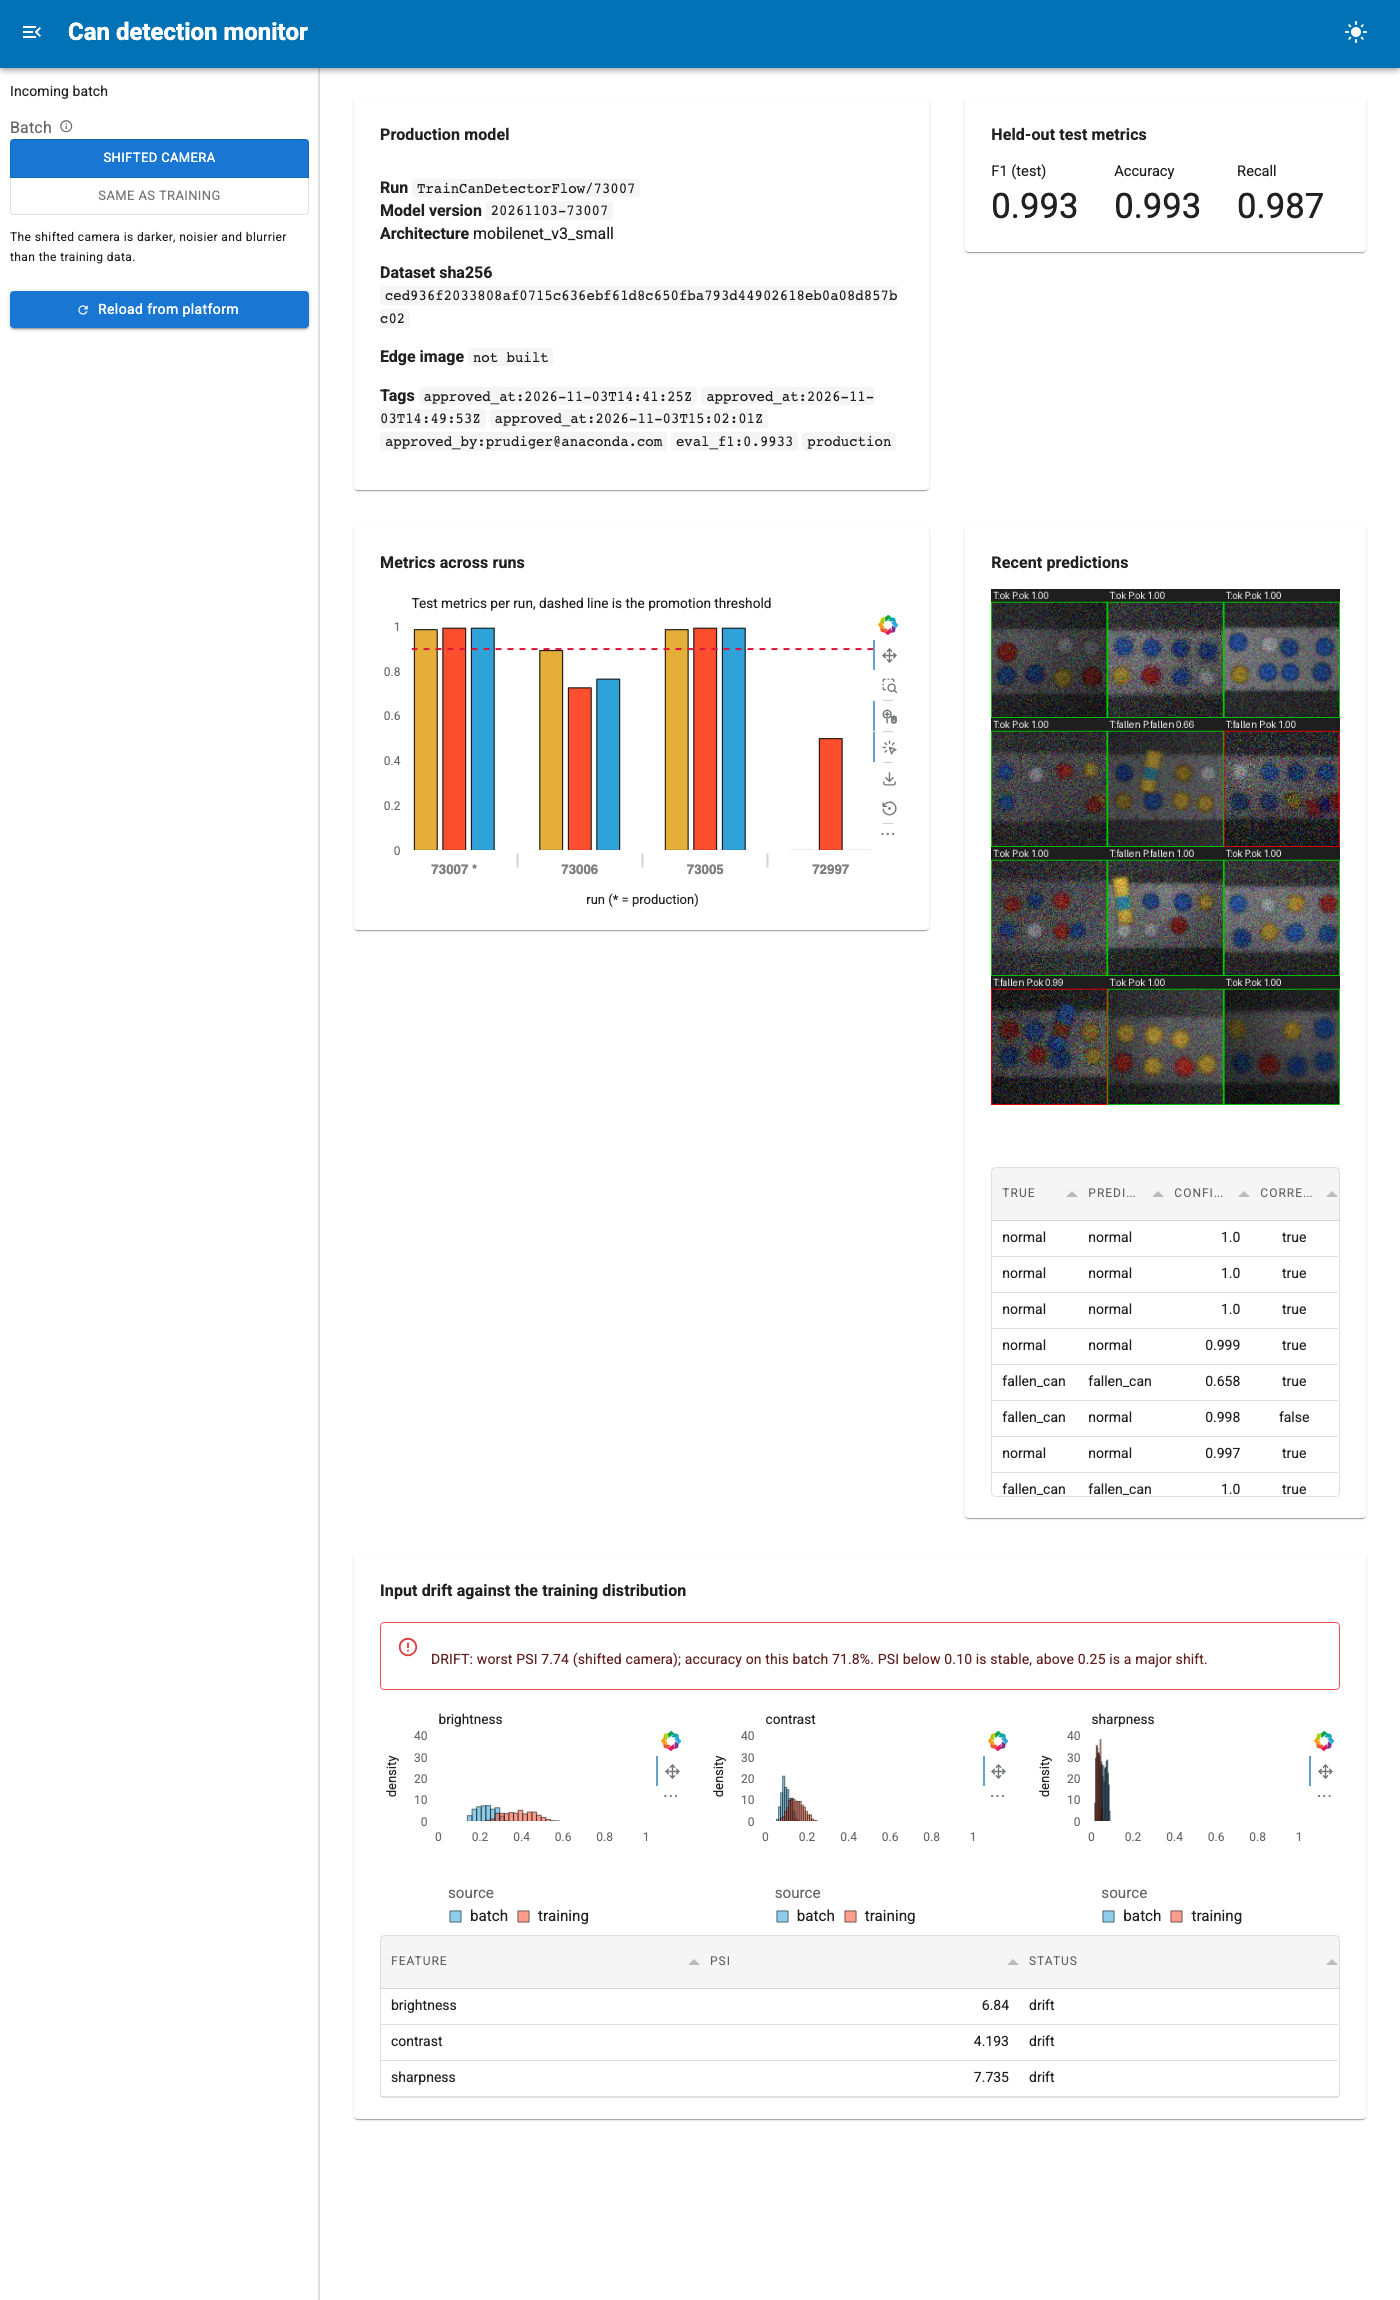
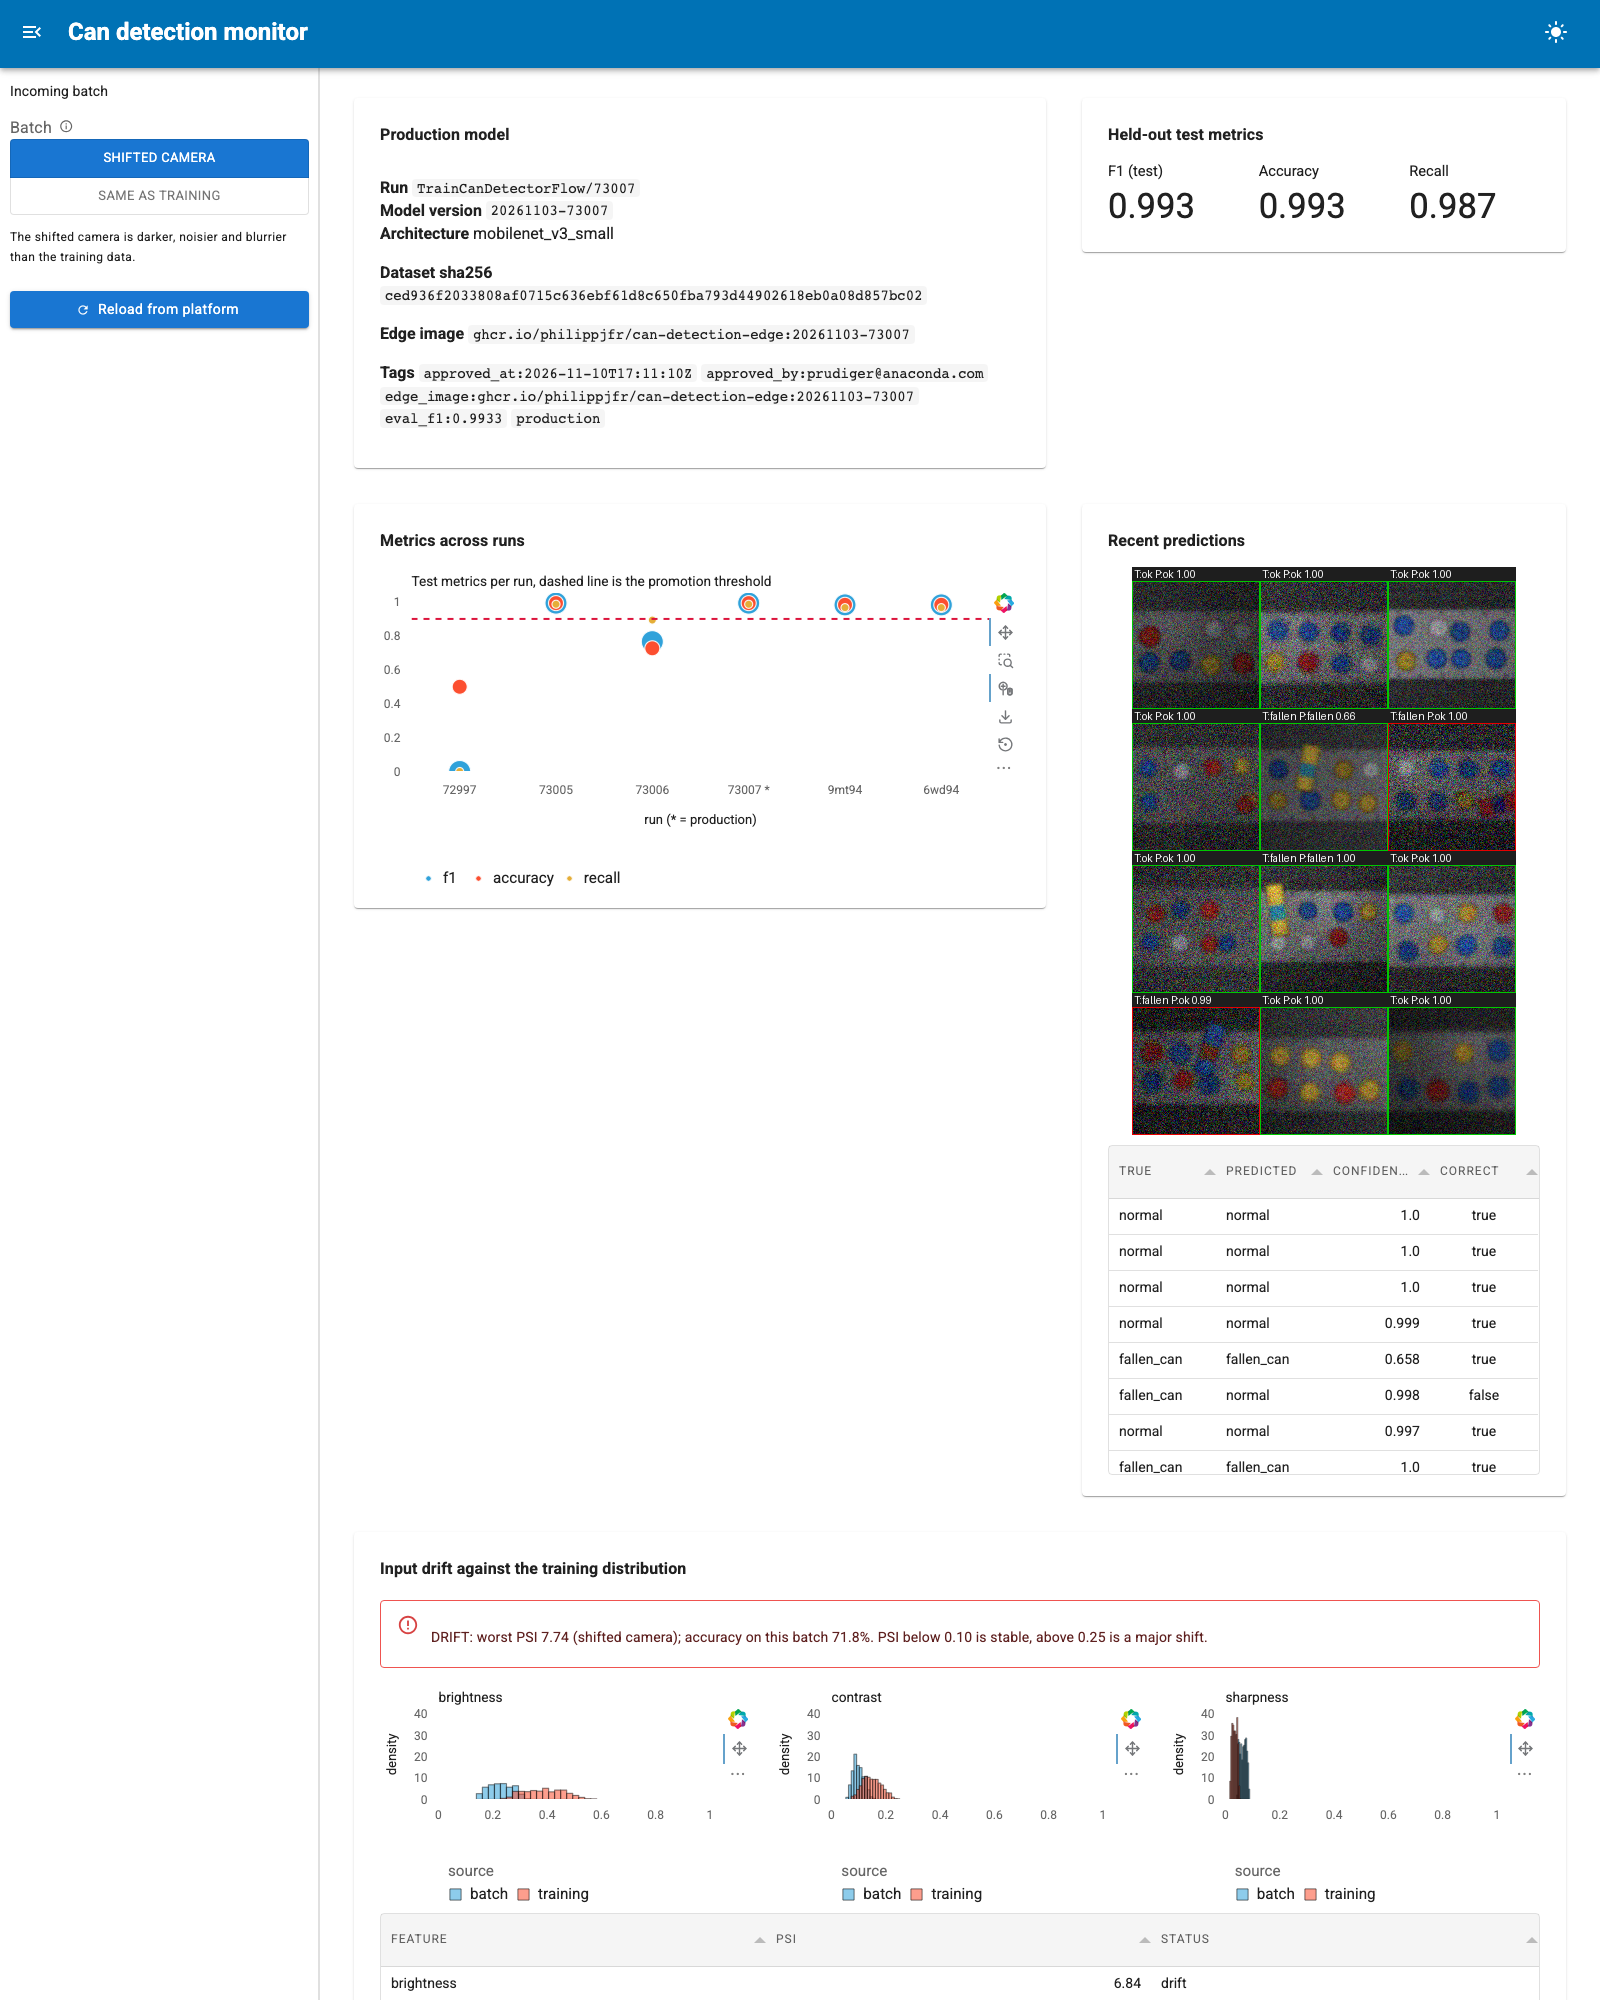
Dashboard: readable run labels, oldest first, dot plot with legend, safe fallbacks [skip ci]

diff --git a/dashboard/app.py b/dashboard/app.py
@@ -24,6 +24,7 @@ from candetect.data import CLASS_NAMES, DataConfig, generate_dataset, shifted_co
 from candetect.drift import FEATURES, drift_report, image_features, overall_status
 from candetect.inference import LoadedRun, contact_sheet, load_run
 from candetect.promotion import summarize_run
+from candetect.report import short_id
 
 log = logging.getLogger("candetect.dashboard")
 log.setLevel(logging.INFO)
@@ -124,9 +125,8 @@ def default_source():
     return MockSource() if os.environ.get("DASHBOARD_MOCK") == "1" else PlatformSource()
 
 
-def _hide_inner_ticks(plot, element):
-    """Grouped bars repeat the metric names under every run; the legend already names them."""
-    plot.state.xaxis[0].major_label_text_alpha = 0
+def _axis_label(run_id: str) -> str:
+    return short_id(run_id).rsplit("-", 1)[-1]
 
 
 class Monitor(pn.viewable.Viewer):
@@ -274,8 +274,11 @@ class Monitor(pn.viewable.Viewer):
         self._reference = image_features(reference.images)
 
         frame = pd.DataFrame(rows)
+        # Oldest run first so time reads left to right, and the last Argo id segment as the label
+        # because the full ids of branch and production deployments are far too long for an axis.
+        frame = frame.iloc[::-1].reset_index(drop=True)
         marks = frame["production"].map({True: " *", False: ""})
-        frame["label"] = frame["run"].astype(str) + marks
+        frame["label"] = frame["run"].astype(str).map(_axis_label) + marks
         shown = ("approved_", "eval_", "edge_", PRODUCTION_TAG)
         tags = [t for t in run.tags if t.startswith(shown)]
         edge_tags = [t.split(":", 1)[1] for t in run.tags if t.startswith("edge_image:")]
@@ -361,12 +364,19 @@ class Monitor(pn.viewable.Viewer):
     @param.depends("runs")
     def _runs_plot(self):
         if self.runs.empty:
-            return hv.Bars([], ["label", "Variable"], "value").opts(responsive=True, height=320)
-        return self.runs.hvplot.bar(
-            x="label", y=["f1", "accuracy", "recall"], ylim=(0, 1.05), rot=0, legend="bottom",
+            return hv.NdOverlay(
+                {"f1": hv.Scatter([], "label", "value")}, kdims=["Variable"]
+            ).opts(responsive=True, height=320)
+        # One marker series per metric: an overlay, so Bokeh builds a legend. Grouped bars colour by
+        # a nested axis level and get no legend.
+        return self.runs.hvplot.scatter(
+            x="label", y=["f1", "accuracy", "recall"], ylim=(0, 1.05), legend="bottom",
             xlabel="run (* = production)", ylabel="", responsive=True, height=320,
             title="Test metrics per run, dashed line is the promotion threshold",
-        ).opts(hooks=[_hide_inner_ticks])  # fmt: skip
+        ).opts(
+            # Nested marker sizes: where the metrics nearly coincide the dots read as rings.
+            hv.opts.Scatter(size=hv.Cycle([22, 15, 8]), line_color="white", line_width=1)
+        )  # fmt: skip
 
     @staticmethod
     def _threshold_line(min_f1):
@@ -376,7 +386,7 @@ class Monitor(pn.viewable.Viewer):
     def _feature_hist(feature, values):
         data = values[values["feature"] == feature]
         if data.empty:
-            return hv.NdOverlay({}, kdims=["source"])
+            return hv.NdOverlay({"training": hv.Histogram(([0.0, 1.0], [0.0]))}, kdims=["source"])
         return data.hvplot.hist(
             "value", by="source", bins=20, alpha=0.55, normed=True, legend="bottom",
             xlabel="", ylabel="density", title=feature, responsive=True, height=220,
